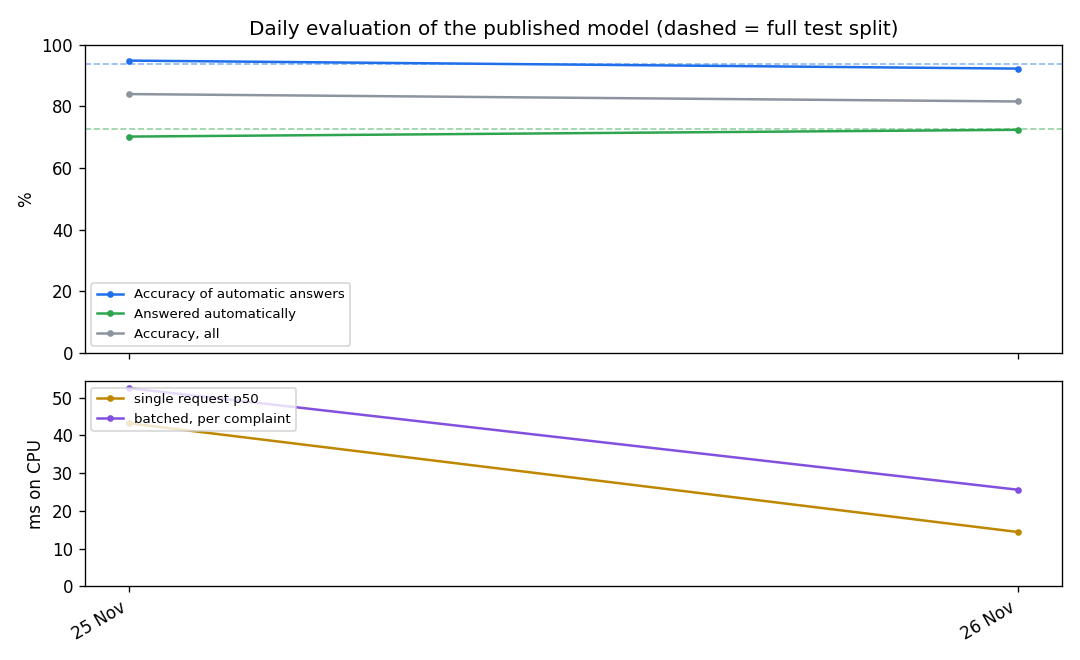
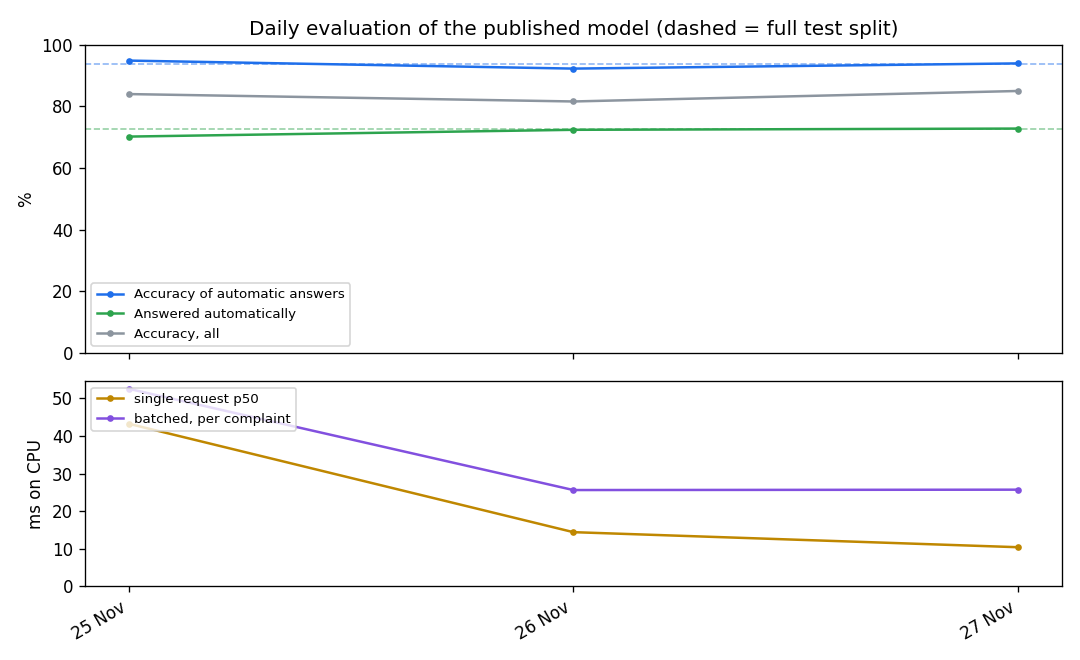
Complaints received 2026-11-12: 30,609, coverage 98.6%, label PSI 0.006, OK | model eval: accuracy 85.0%, auto 72.8% at 94.0%

diff --git a/README.md b/README.md
@@ -18,7 +18,7 @@ Reports below are generated automatically by the daily job.
 ## Dashboard
 
 <!-- LIVE:START -->
-**Last run:** 2026-11-26 | **Latest receipt date checked:** 2026-11-11 | **Status:** OK
+**Last run:** 2026-11-27 | **Latest receipt date checked:** 2026-11-12 | **Status:** OK
 
 Reference window: complaints received 2026-09-29 to 2026-10-26 (677,358 complaints, 98.2% covered by the model's classes).
 
@@ -26,13 +26,13 @@ Reference window: complaints received 2026-09-29 to 2026-10-26 (677,358 complain
 
 | Received | Complaints | Coverage | PSI class mix | Largest class | Status |
 | --- | --- | --- | --- | --- | --- |
+| [2026-11-12](reports/2026-11-12.md) | 30,609 | 98.6% | 0.006 | Credit reporting / Dispute, accuracy or use of report (93.6%) | OK |
 | [2026-11-11](reports/2026-11-11.md) | 34,202 | 98.6% | 0.004 | Credit reporting / Dispute, accuracy or use of report (93.4%) | OK |
 | [2026-11-10](reports/2026-11-10.md) | 33,970 | 98.7% | 0.006 | Credit reporting / Dispute, accuracy or use of report (93.5%) | OK |
 | [2026-11-09](reports/2026-11-09.md) | 27,740 | 98.8% | 0.008 | Credit reporting / Dispute, accuracy or use of report (93.8%) | OK |
 | [2026-11-08](reports/2026-11-08.md) | 7,552 | 96.8% | 0.034 | Credit reporting / Dispute, accuracy or use of report (86.8%) | OK |
 | [2026-11-07](reports/2026-11-07.md) | 16,967 | 98.0% | 0.003 | Credit reporting / Dispute, accuracy or use of report (91.5%) | OK |
 | [2026-11-06](reports/2026-11-06.md) | 32,221 | 98.5% | 0.003 | Credit reporting / Dispute, accuracy or use of report (92.7%) | OK |
-| [2026-11-05](reports/2026-11-05.md) | 33,643 | 98.3% | 0.004 | Credit reporting / Dispute, accuracy or use of report (92.5%) | OK |
 <!-- LIVE:END -->
 
 ## Daily model evaluation
@@ -43,12 +43,13 @@ ComplaintOps data that the model never trained on. This catches a broken model u
 runtime within a day, and tracks CPU latency on a standard GitHub runner.
 
 <!-- EVAL:START -->
-**Latest (2026-11-26):** 500 held-out complaints, accuracy 81.6%, answered automatically 72.4% at 92.3% accuracy, 14.4 ms per request (p50, CPU).
+**Latest (2026-11-27):** 500 held-out complaints, accuracy 85.0%, answered automatically 72.8% at 94.0% accuracy, 10.4 ms per request (p50, CPU).
 
 ![Evaluation trend](reports/eval_trend.png)
 
 | Date | Accuracy | Auto-answered | Accuracy (auto) | p50 ms |
 | --- | --- | --- | --- | --- |
+| [2026-11-27](reports/eval/2026-11-27.md) | 85.0% | 72.8% | 94.0% | 10.4 |
 | [2026-11-26](reports/eval/2026-11-26.md) | 81.6% | 72.4% | 92.3% | 14.4 |
 | [2026-11-25](reports/eval/2026-11-25.md) | 84.0% | 70.2% | 94.9% | 43.2 |
 <!-- EVAL:END -->

diff --git a/reports/2026-11-12.md b/reports/2026-11-12.md
@@ -1,0 +1,24 @@
+# ComplaintOps Live: complaints received 2026-11-12
+
+**Status: OK**
+
+| Metric | This day | Reference window |
+| --- | --- | --- |
+| Complaints received | 30,609 | |
+| Covered by the model's 24 classes | 98.6% | 98.2% |
+| PSI of class mix vs reference | 0.006 | < 0.1 stable |
+| Largest class | Credit reporting / Dispute, accuracy or use of report (93.6%) | |
+
+**Classes growing most vs reference**
+
+- Credit reporting / Dispute, accuracy or use of report: 91.8% -> 93.6%
+
+**Largest product + issue pairs the model has no class for**
+
+- Money transfer, virtual currency, or money service / Other transaction problem: 23
+- Money transfer, virtual currency, or money service / Unauthorized transactions or other transaction problem: 23
+- Credit reporting / Problem with a company's investigation into an existing issue: 22
+- Vehicle loan or lease / Repossession: 22
+- Payday/personal loan / Problem when making payments: 21
+
+Counts come from the CFPB public API for this receipt date and can still change slightly if late complaints are published.

diff --git a/reports/eval/2026-11-27.md b/reports/eval/2026-11-27.md
@@ -1,0 +1,13 @@
+# Model evaluation: 2026-11-27
+
+The published int8 ONNX model classified 500 held-out complaints sampled for this date.
+
+| Metric | Today | Full test split |
+| --- | --- | --- |
+| Accuracy (top-1, 24 classes) | 85.0% | |
+| Answered automatically (confidence >= 0.8) | 72.8% | 72.6% |
+| Accuracy of automatic answers | 94.0% | 93.9% |
+| CPU latency per complaint, batched | 25.7 ms | |
+| CPU latency, single request p50 / p95 | 10.4 / 21.4 ms | |
+
+Runs on a GitHub Actions runner (4 vCPU, no GPU).
